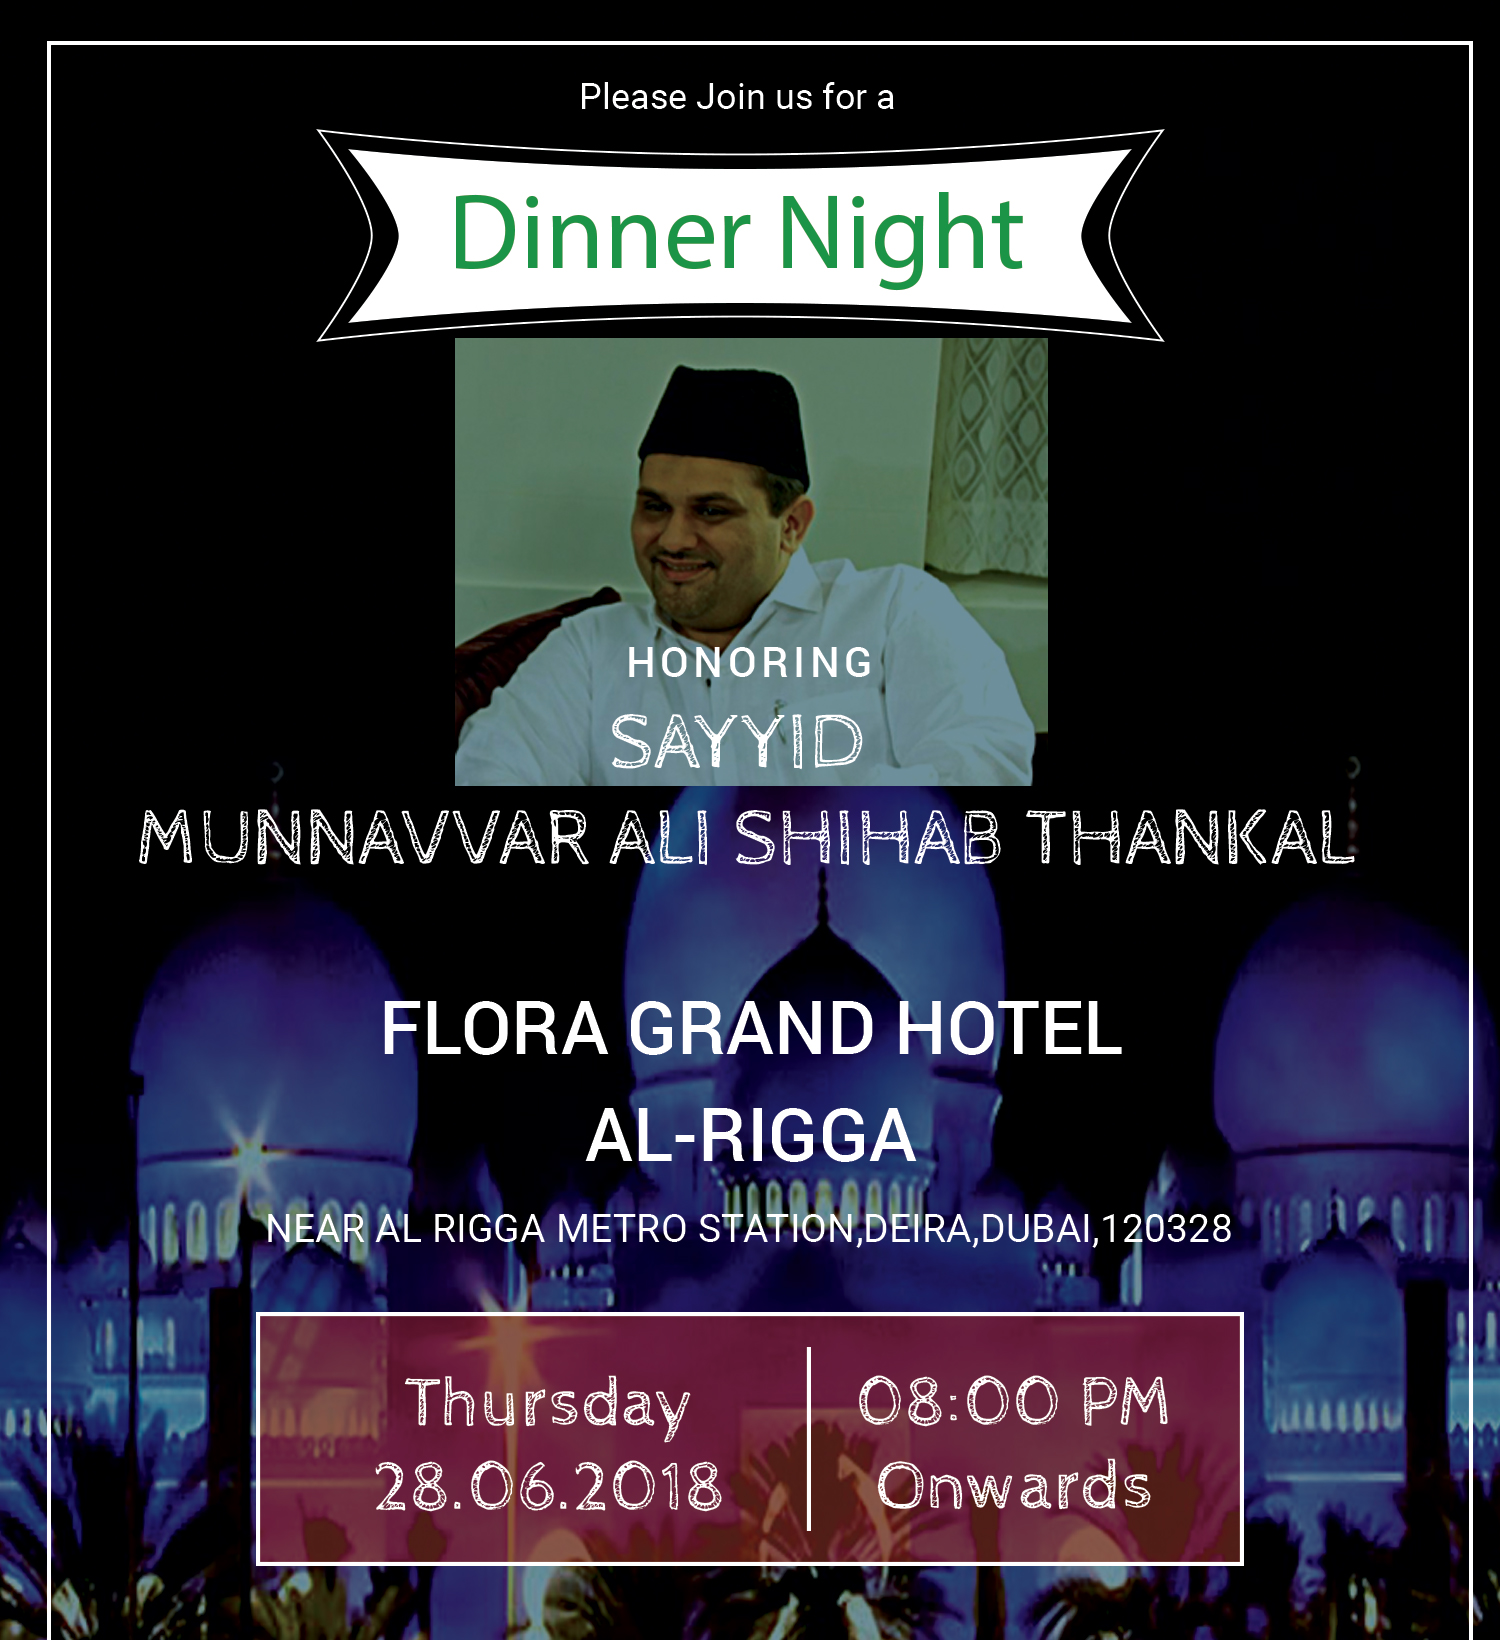
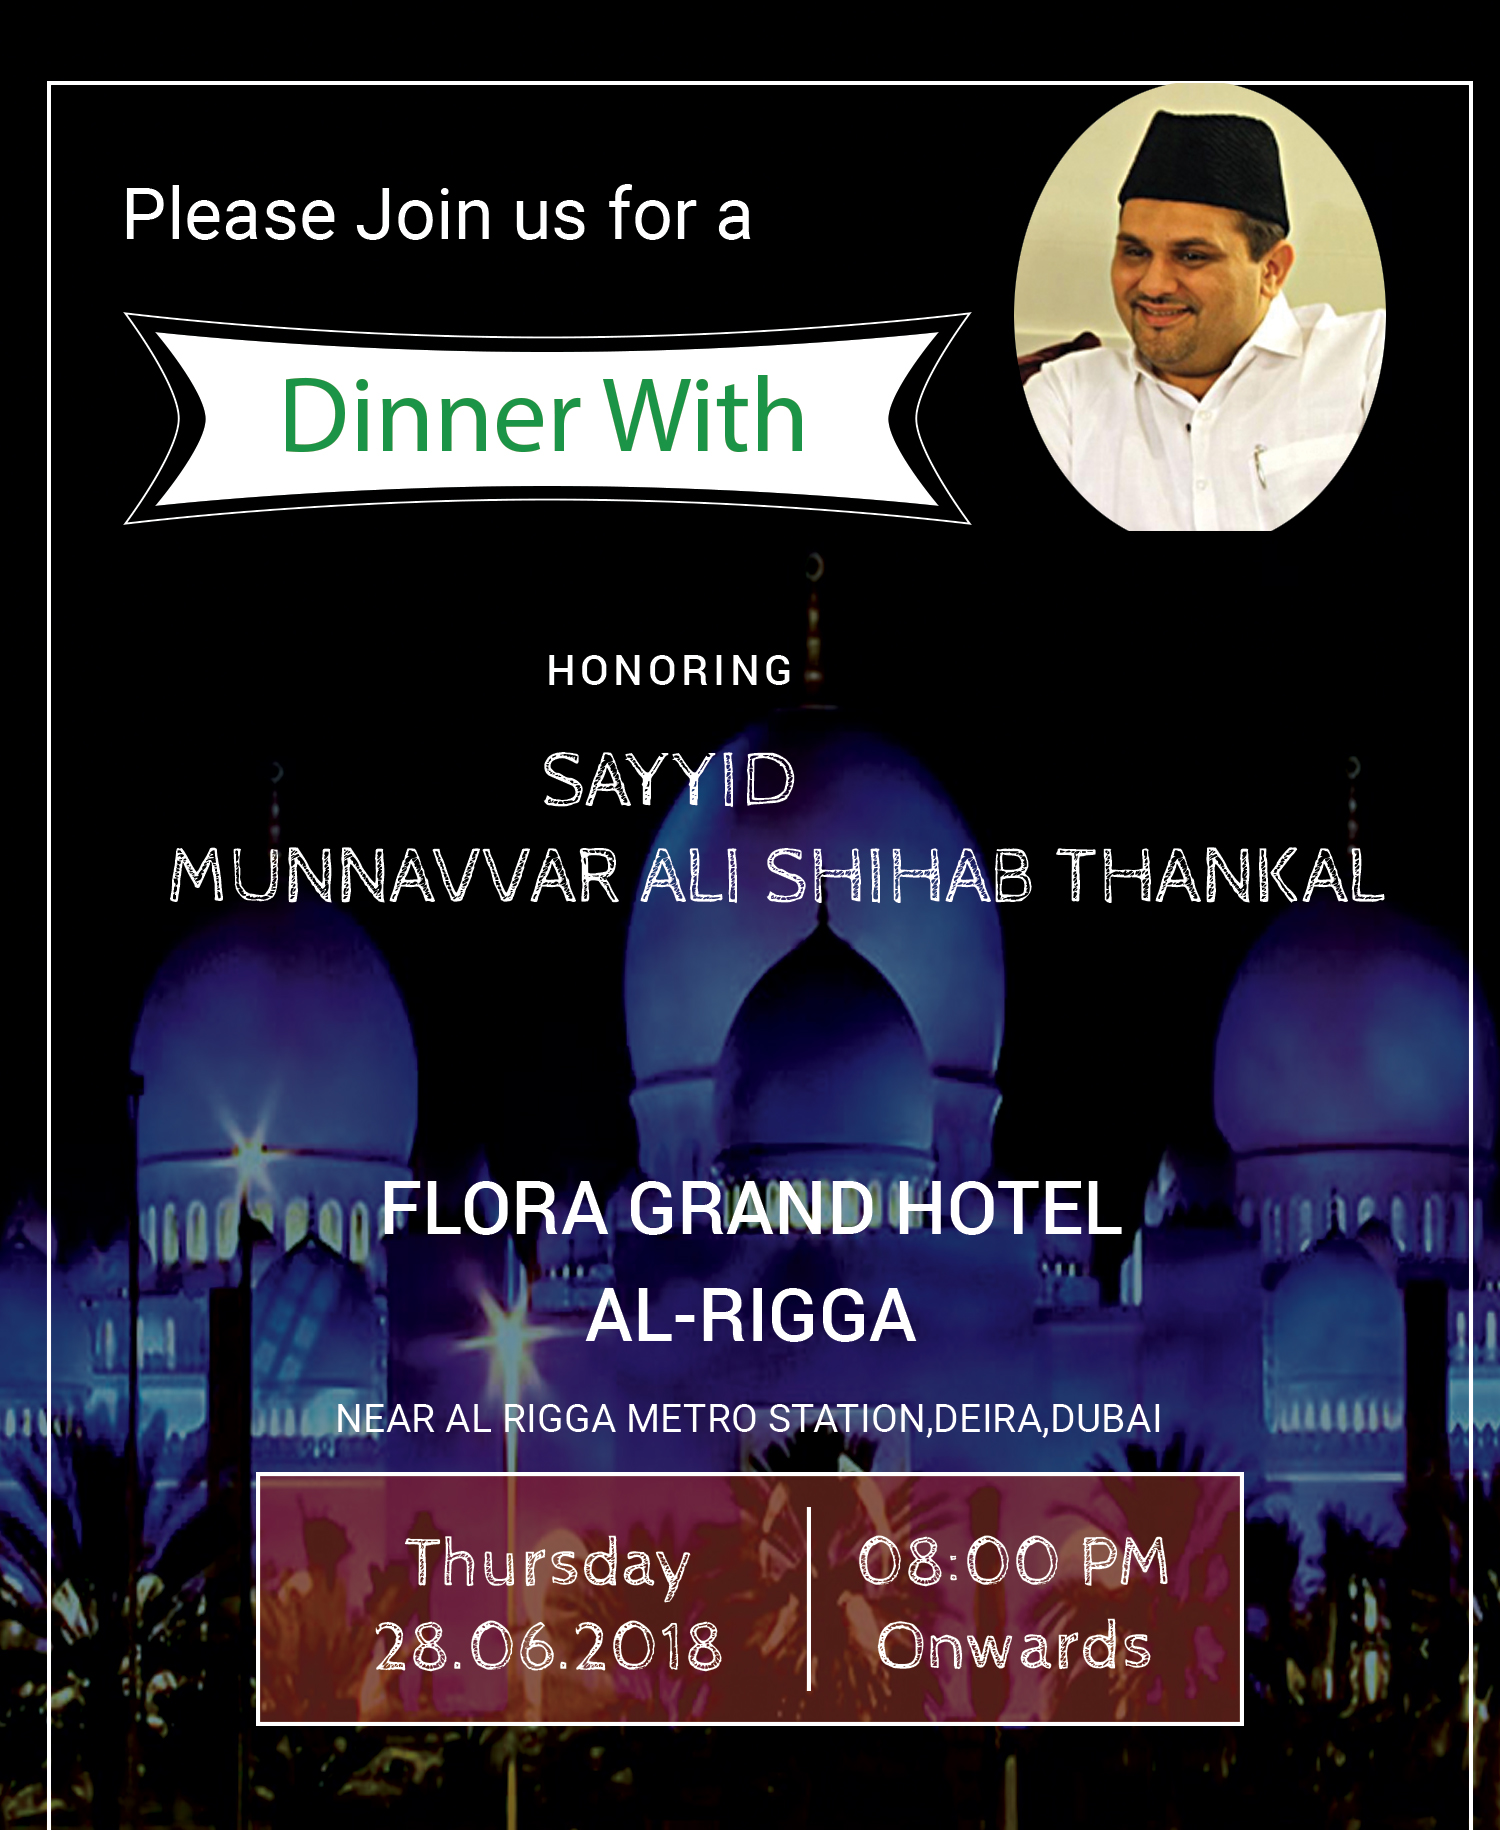
ss

diff --git a/invitations/invitations1.html b/invitations/invitations1.html
@@ -1,39 +1,37 @@
 <html>
 <head>
-	<title>Invitation letter to Our Dinner</title>
-	<meta http-equiv="Content-Type" content="text/html; charset=utf-8">
-	<meta name="description" content="Dinner With Sayyid Munnavvar ali thangal">
-	<meta property="og:title" content="Dinner With Sayyid Munnavvar ali thangal" />
-	<meta property="og:url" content="https://jbeanijas.github.io/invitations/invitations1.html" />
-	<meta property="og:description" content="Invitation letter">
-	<meta property="og:image" content="images/invitations1_01.jpg">
-	<meta property="og:type" content="article" />
-	<meta property="og:locale" content="en_GB" />
-	<meta property="og:locale:alternate" content="fr_FR" />
-	<meta property="og:locale:alternate" content="es_ES" />
-	<meta http-equiv="Content-Type" content="text/html; charset=utf-8">
-	<meta property="og:title" content="Dinner With Sayyid Munnavvar ali thangal" />
-	 <meta property="og:image" content="https://jbeanijas.github.io/invitations/images/invitations1_01.jpg" />
+<meta http-equiv="Content-Type" content="text/html; charset=utf-8">
+<title>Invitation letter to Our Dinner</title>
+<meta http-equiv="Content-Type" content="text/html; charset=utf-8">
+<meta name="description" content="Dinner With Sayyid Munnavvar ali thangal">
+<meta property="og:title" content="Dinner With Sayyid Munnavvar ali thangal" />
+<meta property="og:url" content="https://jbeanijas.github.io/invitations/invitations1.html" />
+<meta property="og:description" content="Invitation letter">
+<meta property="og:image" content="images/invitations1_01.jpg">
+<meta property="og:type" content="article" />
+<meta property="og:locale" content="en_GB" />
+<meta property="og:locale:alternate" content="fr_FR" />
+<meta property="og:locale:alternate" content="es_ES" />
 </head>
 <body bgcolor="#FFFFFF" leftmargin="0" topmargin="0" marginwidth="0" marginheight="0">
 <!-- Save for Web Slices (BirthdayCelebration_Invation 5 x 7.psd) -->
 <table id="Table_01" width="1500" height="2100" border="0" cellpadding="0" cellspacing="0">
 	<tr>
 		<td colspan="3">
-			<img src="images/invitations1_01.jpg" width="1500" height="1640" alt=""></td>
+			<img src="images/invitations1_01.jpg" width="1500" height="1830" alt=""></td>
 	</tr>
 	<tr>
 		<td rowspan="2">
-			<img src="images/invitations1_02.jpg" width="47" height="460" alt=""></td>
+			<img src="images/invitations1_02.jpg" width="332" height="270" alt=""></td>
 		<td>
 			<a href="https://www.google.com/maps/place/Flora+Grand+Hotel/@25.2650566,55.3222008,17z/data=!4m7!3m6!1s0x3e5f4348c3eac2d9:0x603c11e9bb493637!5m1!1s2018-06-27!8m2!3d25.2649545!4d55.3221381?hl=en">
-				<img src="images/invitation-letter.jpg" width="1426" height="401" border="0" alt=""></a></td>
+				<img src="images/invitation-letter.jpg" width="735" height="138" border="0" alt=""></a></td>
 		<td rowspan="2">
-			<img src="images/invitations1_04.jpg" width="27" height="460" alt=""></td>
+			<img src="images/invitations1_04.jpg" width="433" height="270" alt=""></td>
 	</tr>
 	<tr>
 		<td>
-			<img src="images/invitations1_05.jpg" width="1426" height="59" alt=""></td>
+			<img src="images/invitations1_05.jpg" width="735" height="132" alt=""></td>
 	</tr>
 </table>
 <!-- End Save for Web Slices -->
